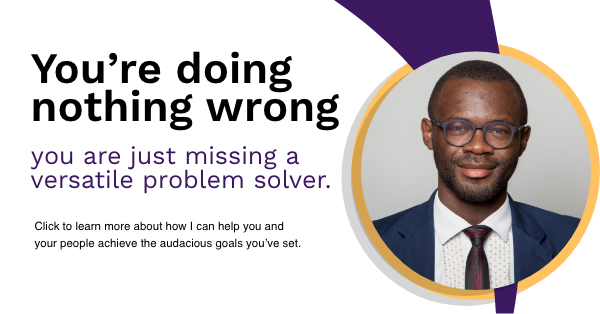
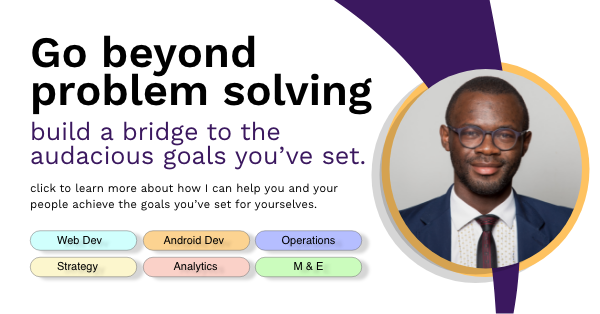
updates to front page for large screens

diff --git a/index.html b/index.html
@@ -19,7 +19,7 @@
   <!--Linkedin Tags following the OGP-->
   <meta property='og:title' content='James J. Njong : The missing piece in your strategy.'/>
   <meta property='og:image' content='./resources/images/linkshare.png'/>
-  <meta property='og:description' content='Problem solving is two things: goal and strategy. And as a versatile problem solver, I help people and organizations ensure that these two facets of problem solving are aligned within their organization. My knowledge and skill, serves them best either in problem around software development, quantitative analysis or project management.'/>
+  <meta property='og:description' content='Problem solving is two things: goal and strategy. And the finest problem solvers use this to help people. However if you must be different, you have to do what they are not, and that is exactly what I do. I help you go beyond problem solving, and start building the future you want, whatever the industry.'/>
   <meta property='og:url' content='//www.njongjames.com/'/>
 </head>
 <body>
@@ -82,9 +82,10 @@
 
           <div class="hdb-left">             
               <h1>
-                <p class="display-4 fw-bold text-tag-problem">Enhance your problem solving, with this new hire.</p>  
+                <p class="display-4 fw-bold text-tag-name ">Beyond problem solving,</p>
+                <p class="display-6 text-tag-problem">build a bridge to the audacious goals you've set.</p>  
               </h1>    
-              <p class="text-tag-pitch">Hello. My name is James J. Njong, and I am a versatile problem solver who helps people and organizations set and achieve audacious goals, through problem solving across three strategic nodes of their value chain.</p>
+              <p class="text-tag-pitch">Problem solving is two things: goal and strategy. Like you, your competition knows this, and they use it. So, if you must be ahead, you have to do what they are not, and that is exactly where I come in. I help you go beyond problem solving, and start concieving and building the future you want, whatever your industry. I'm James Junior Njong, and you are welcome here.</p>
 
                                 
                                   
@@ -96,7 +97,7 @@
           </div>
 
           <div class="hdb-right">
-            <img src="./resources/icons/hero-image.svg" alt="problem solvers and others" class="img-fluid hdb-right-img">
+            <img src="./resources/images/profile_home_page.png" alt="problem solvers and others" class="img-fluid hdb-right-img">
           </div>
 
         </div>

diff --git a/sass/base.css b/sass/base.css
@@ -293,8 +293,7 @@ header {
   -webkit-box-shadow: 0 20px 50px rgba(0, 0, 0, 0.3);
           box-shadow: 0 20px 50px rgba(0, 0, 0, 0.3);
   z-index: 26;
-  padding: 3rem 0rem 3rem 0rem;
-  min-height: 100px;
+  padding: 1rem 0rem 1rem 0rem;
   /* Color of 3 lines */
   /* when navigation is clicked */
   /* State when the navbar is collapsed */
@@ -465,19 +464,23 @@ header .navbar-toggler.collapsed .bottom-bar {
   -webkit-box-direction: normal;
       -ms-flex-direction: grid;
           flex-direction: grid;
-  -ms-grid-columns: 1fr 2fr;
-      grid-template-columns: 1fr 2fr;
+  -ms-grid-columns: 50% 40%;
+      grid-template-columns: 50% 40%;
   -webkit-box-pack: center;
       -ms-flex-pack: center;
           justify-content: center;
   -webkit-box-align: center;
       -ms-flex-align: center;
           align-items: center;
-  gap: 20px;
+  gap: 30px;
 }
 
 .home .home-data-basket .text-tag-hello {
   color: #2a0944;
+}
+
+.home .home-data-basket .hdb-right {
+  width: 100%;
 }
 
 .home .home-data-basket .hdb-right-img {
@@ -494,7 +497,7 @@ header .navbar-toggler.collapsed .bottom-bar {
 .home .home-data-basket .text-tag-problem {
   color: #0d0d0d;
   font-family: "Montserrat", sans-serif;
-  font-weight: 700;
+  font-weight: 600;
 }
 
 .home .home-data-basket .text-tag-pitch {

diff --git a/sass/base.scss b/sass/base.scss
@@ -241,8 +241,8 @@ header {
   text-align: start;
   box-shadow: 0 20px 50px rgba(0, 0, 0, 0.3);
   z-index: 26;
-  padding: 3rem 0rem 3rem 0rem;
-  min-height: 100px;
+  padding: 1rem 0rem 1rem 0rem;
+  //min-height: 100px;
 
   .header-data-basket {
     display: flex;
@@ -385,14 +385,16 @@ header {
     padding-top: 50px;
     display: flex;
     flex-direction: grid;
-    grid-template-columns: 1fr 2fr;
+    grid-template-columns: 50% 40%;
     justify-content: center;
     align-items: center;
-    gap: 20px;
+    gap: 30px;
     .text-tag-hello {
       color: $color-primary;
     }
-
+    .hdb-right {
+      width: 100%;
+    }
     .hdb-right-img {
       width: 100%;
     }
@@ -407,7 +409,7 @@ header {
     .text-tag-problem {
       color: $color-text-secondary;
       font-family: $montserrat-font-family;
-      font-weight: 700;
+      font-weight: 600;
     }
 
     .text-tag-pitch {
